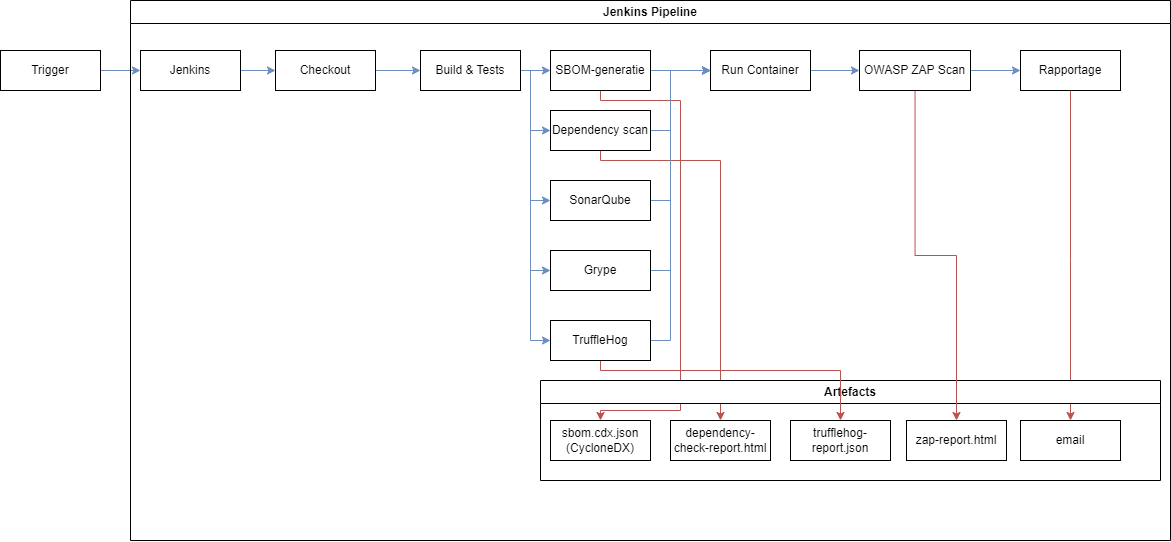
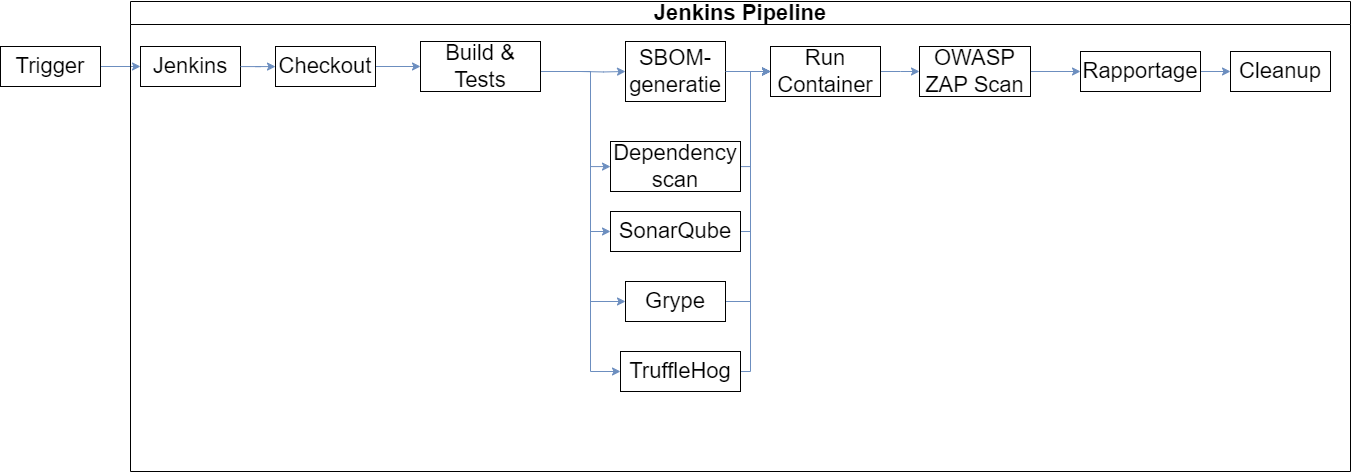
update bap

diff --git a/bachproef/standvanzaken.tex b/bachproef/standvanzaken.tex
@@ -434,18 +434,26 @@ Vervolgens een korte samenvatting van alle besproken tools~\ref{tab:tool-compari
   \centering
   \caption{Vergelijking security tools voor Jenkins DevSecOps pipeline}
   \label{tab:tool-comparison}
-  \begin{tabular}{|l|c|c|c|c|c|}
+  \resizebox{\textwidth}{!}{%
+  \begin{tabular}{|l|c|c|c|c|c|c|c|c|}
     \hline
-    \textbf{Tool} & \textbf{SAST} & \textbf{SCA} & \textbf{SBOM} & \textbf{Jenkins} & \textbf{Licentie} \\
+    \textbf{Tool} & \textbf{SAST} & \textbf{SCA} & \textbf{SBOM} & \textbf{Secrets} & \textbf{IaC} & \textbf{DAST} & \textbf{Jenkins} & \textbf{Licentie} \\
     \hline
-    Snyk & Ja & Ja & Ja & Ja & Commercieel \\
-    Aikido & Ja & Ja & Gedeeltelijk & Ja & Commercieel \\
-    OWASP Dep-Check & Nee & Ja & Nee & Ja & Open Source \\
-    SonarQube & Ja & Gedeeltelijk & Nee & Ja & Open Source* \\
-    Grype & Nee & Ja (containers) & Ja (via SBOM) & Ja (CLI) & Open Source \\
+    Snyk & Ja & Ja & Ja & Ja & Ja & Nee & Ja & Commercieel \\
+    Aikido Security & Ja & Ja & Gedeeltelijk & Ja & Ja & Nee & Ja & Commercieel \\
+    OWASP Dependency-Check & Nee & Ja & Nee & Nee & Nee & Nee & Ja & Open Source \\
+    SonarQube & Ja & Gedeeltelijk & Nee & Nee & Nee & Nee & Ja & Open Source* \\
+    Grype & Nee & Ja (containers) & Ja (via Syft) & Nee & Nee & Nee & Ja (CLI) & Open Source \\
+    Trufflehog & Nee & Nee & Nee & Ja & Nee & Nee & Ja (CLI) & Open Source \\
+    Checkov & Nee & Nee & Nee & Nee & Ja & Nee & Ja (CLI) & Open Source \\
+    OWASP ZAP & Nee & Nee & Nee & Nee & Nee & Ja & Ja & Open Source \\
     \hline
-  \end{tabular}
-  *Community editie gratis, Enterprise betaald
+  \end{tabular}%
+  }
+
+  \vspace{2mm}
+  
+  \small *Community Edition gratis, Enterprise betaald
 \end{table}
 
 \subsubsection{Toolselectie}

diff --git a/bachproef/proofofconcept.tex b/bachproef/proofofconcept.tex
@@ -42,13 +42,20 @@ De pipeline volgt een klassieke CI/CD-volgorde waarin de securitystappen zijn ge
 
 Deze opbouw zorgt ervoor dat securitycontroles niet losstaan van het ontwikkelproces, maar deel uitmaken van dezelfde geautomatiseerde workflow. Op die manier wordt feedback voor ontwikkelaars vroeg in het proces gegeven en blijft de impact op de bestaande werkwijze beperkt.
 
+Figuur~\ref{fig:artefacts-structuur} toont vervolgens welke artefacten door de verschillende stappen worden gegenereerd en verzameld. De SBOM-generatie produceert een CycloneDX-bestand, de dependency scan levert een HTML-rapport op, TruffleHog genereert een JSON-rapport, OWASP ZAP produceert een HTML-rapport en de rapportagestap verstuurd de resultaten via e-mail.
+
 \begin{figure}[h]
     \centering
     \includegraphics[width=\textwidth]{../graphics/pipeline-structuur.png}
-    \caption[Overzicht Jenkins-pipeline]{High-level overzicht van de Jenkins-pipeline. Blauwe pijlen tonen het
-    sequentiële verloop van de stages, rode pijlen tonen welke artefacten (SBOM,
-    scanrapporten, e-mail) in elke stap worden geproduceerd en verzameld.}
-    \label{fig:pipleine-structuur}
+    \caption[Overzicht Jenkins-pipeline]{High-level overzicht van de Jenkins-pipeline.}
+    \label{fig:pipeline-structuur}
+\end{figure}
+
+\begin{figure}[h]
+    \centering
+    \includegraphics[width=\textwidth]{../graphics/artifacts-per-pipeline-stap.png}
+    \caption[Artefacten per pipeline-stap]{Overzicht van de artefacten die door de verschillende pipeline-stappen worden geproduceerd en verzameld.}
+    \label{fig:artefacts-structuur}
 \end{figure}
 
 \subsection{Pipeline stages}
@@ -556,7 +563,7 @@ De focus ligt op het gedrag van de Jenkins-pipeline in een representatieve run m
 
 Als referentiescenario werd een build uitgevoerd op de \texttt{main}-branch van Spring Petclinic. De volledige Jenkins-pipeline doorliep hierbij alle geconfigureerde stages: van \texttt{Checkout} en \texttt{Maven Build} over \texttt{Build Container Image} tot en met de parallelle securitycontroles, runtime-stappen en archivering van artefacten.
 
-De run toont aan dat de pipeline de verschillende securitytools in de juiste volgorde en met de juiste input aanroept. Eerst wordt een containerimage opgebouwd op basis van de gecompileerde JAR, waarna in de stage \texttt{Parallel Security Checks} de SBOM-generatie, dependency scanning, SAST, container image scanning en secrets scanning parallel worden uitgevoerd. Vervolgens wordt de container gestart en via OWASP ZAP aan een DAST-scan onderworpen, waarna de belangrijkste rapporten als HTML en JSON beschikbaar zijn in Jenkins voor verdere analyse.
+De referentierun toont aan dat de pipeline de verschillende securitytools in de juiste volgorde en met de juiste input aanroept. Eerst wordt een containerimage opgebouwd op basis van de gecompileerde JAR, waarna in de stage \texttt{Parallel Security Checks} de SBOM-generatie, dependency scanning, SAST, container image scanning en secrets scanning parallel worden uitgevoerd. Vervolgens wordt de container gestart en via OWASP ZAP aan een DAST-scan onderworpen, waarna de belangrijkste rapporten als HTML en JSON beschikbaar zijn in Jenkins voor verdere analyse.
 
 Figuur~\ref{fig:jenkins-run-overview} toont het stage-overzicht van de pipeline voor deze run. De klassieke CI-stappen (\texttt{Tool Install}, \texttt{Checkout}, \texttt{Maven Build} en \texttt{Build Container Image}) slagen zonder fouten, waarna de parallelle securityflows, runtime-stappen en archivering worden uitgevoerd.
 
@@ -580,9 +587,13 @@ De referentierun laat zien dat de verschillende securityflows effectief probleme
 
 Dankzij het gebruik van \texttt{catchError} in de meeste securitystappen kan de pipeline ondanks deze failures verderlopen tot \texttt{Run Container}, \texttt{OWASP ZAP Scan}, \texttt{Compliance Rapport} en \texttt{Archive Artifacts} zodat alle relevante rapporten en artefacten na afloop van de run beschikbaar zijn in Jenkins.
 
-\subsection{Referentierun simpele Python-applicatie}
+\subsection{Referentieruns simpele Python-applicaties}
 
-\subsection{Referentierun simpele .NET-applicatie}
+Voor de Python-applicatie werden twee referentieruns uitgevoerd: één op een bewust kwetsbare applicatie en één op een versie zonder gekende kwetsbaarheden. De kwetsbare variant leverde effectieve detecties op in de dependency-scans en de container scanning, terwijl de niet-kwetsbare variant geen CVE's opleverde in OWASP Dependency-Check en dus een lege rapportage genereerde, zoals verwacht. De SBOM-validatie en container scanning bleven wel aandachtspunten, aangezien deze ook afhankelijk zijn van de volledigheid van de SBOM en de gebruikte containerbasis.
+
+\subsection{Referentieruns simpele .NET-applicaties}
+
+Ook voor de .NET-applicaties werd dezelfde opzet gevolgd: een kwetsbare referentieversie en een versie zonder bedoelde kwetsbaarheden. De kwetsbare applicatie leidde tot detecties in de securityscans, terwijl de schone versie geen relevante dependency-kwetsbaarheden rapporteerde. Dit bevestigt dat de pipeline niet enkel voor Java, maar ook voor andere technologiën bruikbaar is, op voorwaarde dat de build- en scanstappen worden aangepast aan het gebruikte ecosysteem. Daarbij blijft de kwaliteit van de resultaten wel afhankelijk van de gebruikte dependencies, basisimages en de volledigheid van de SBOM.
 
 \section{Evaluatie van de PoC}
 